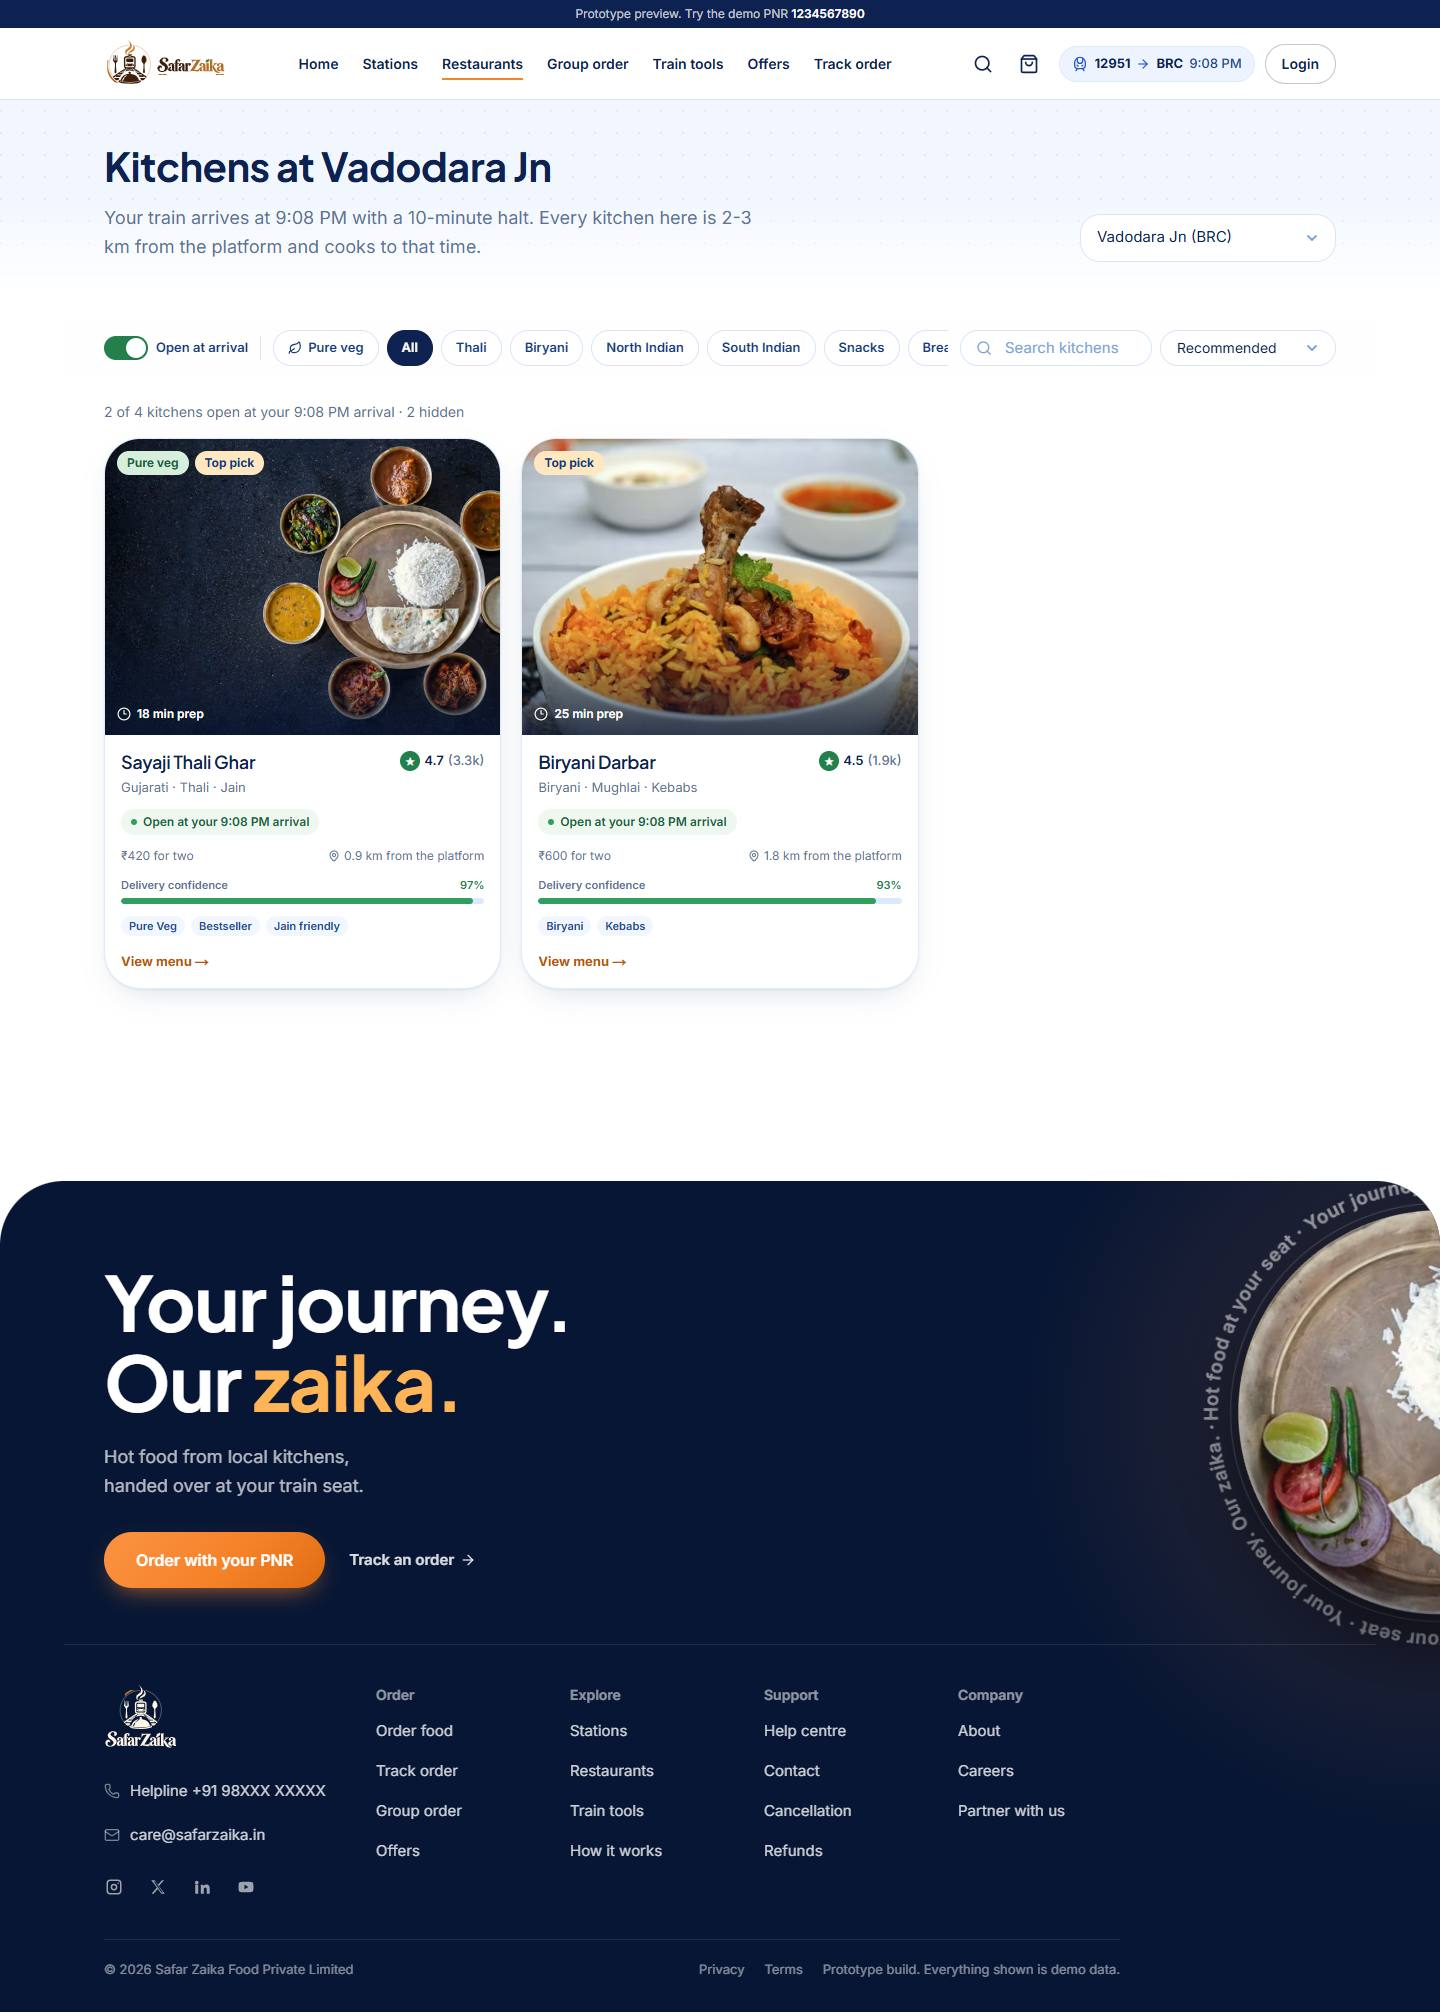
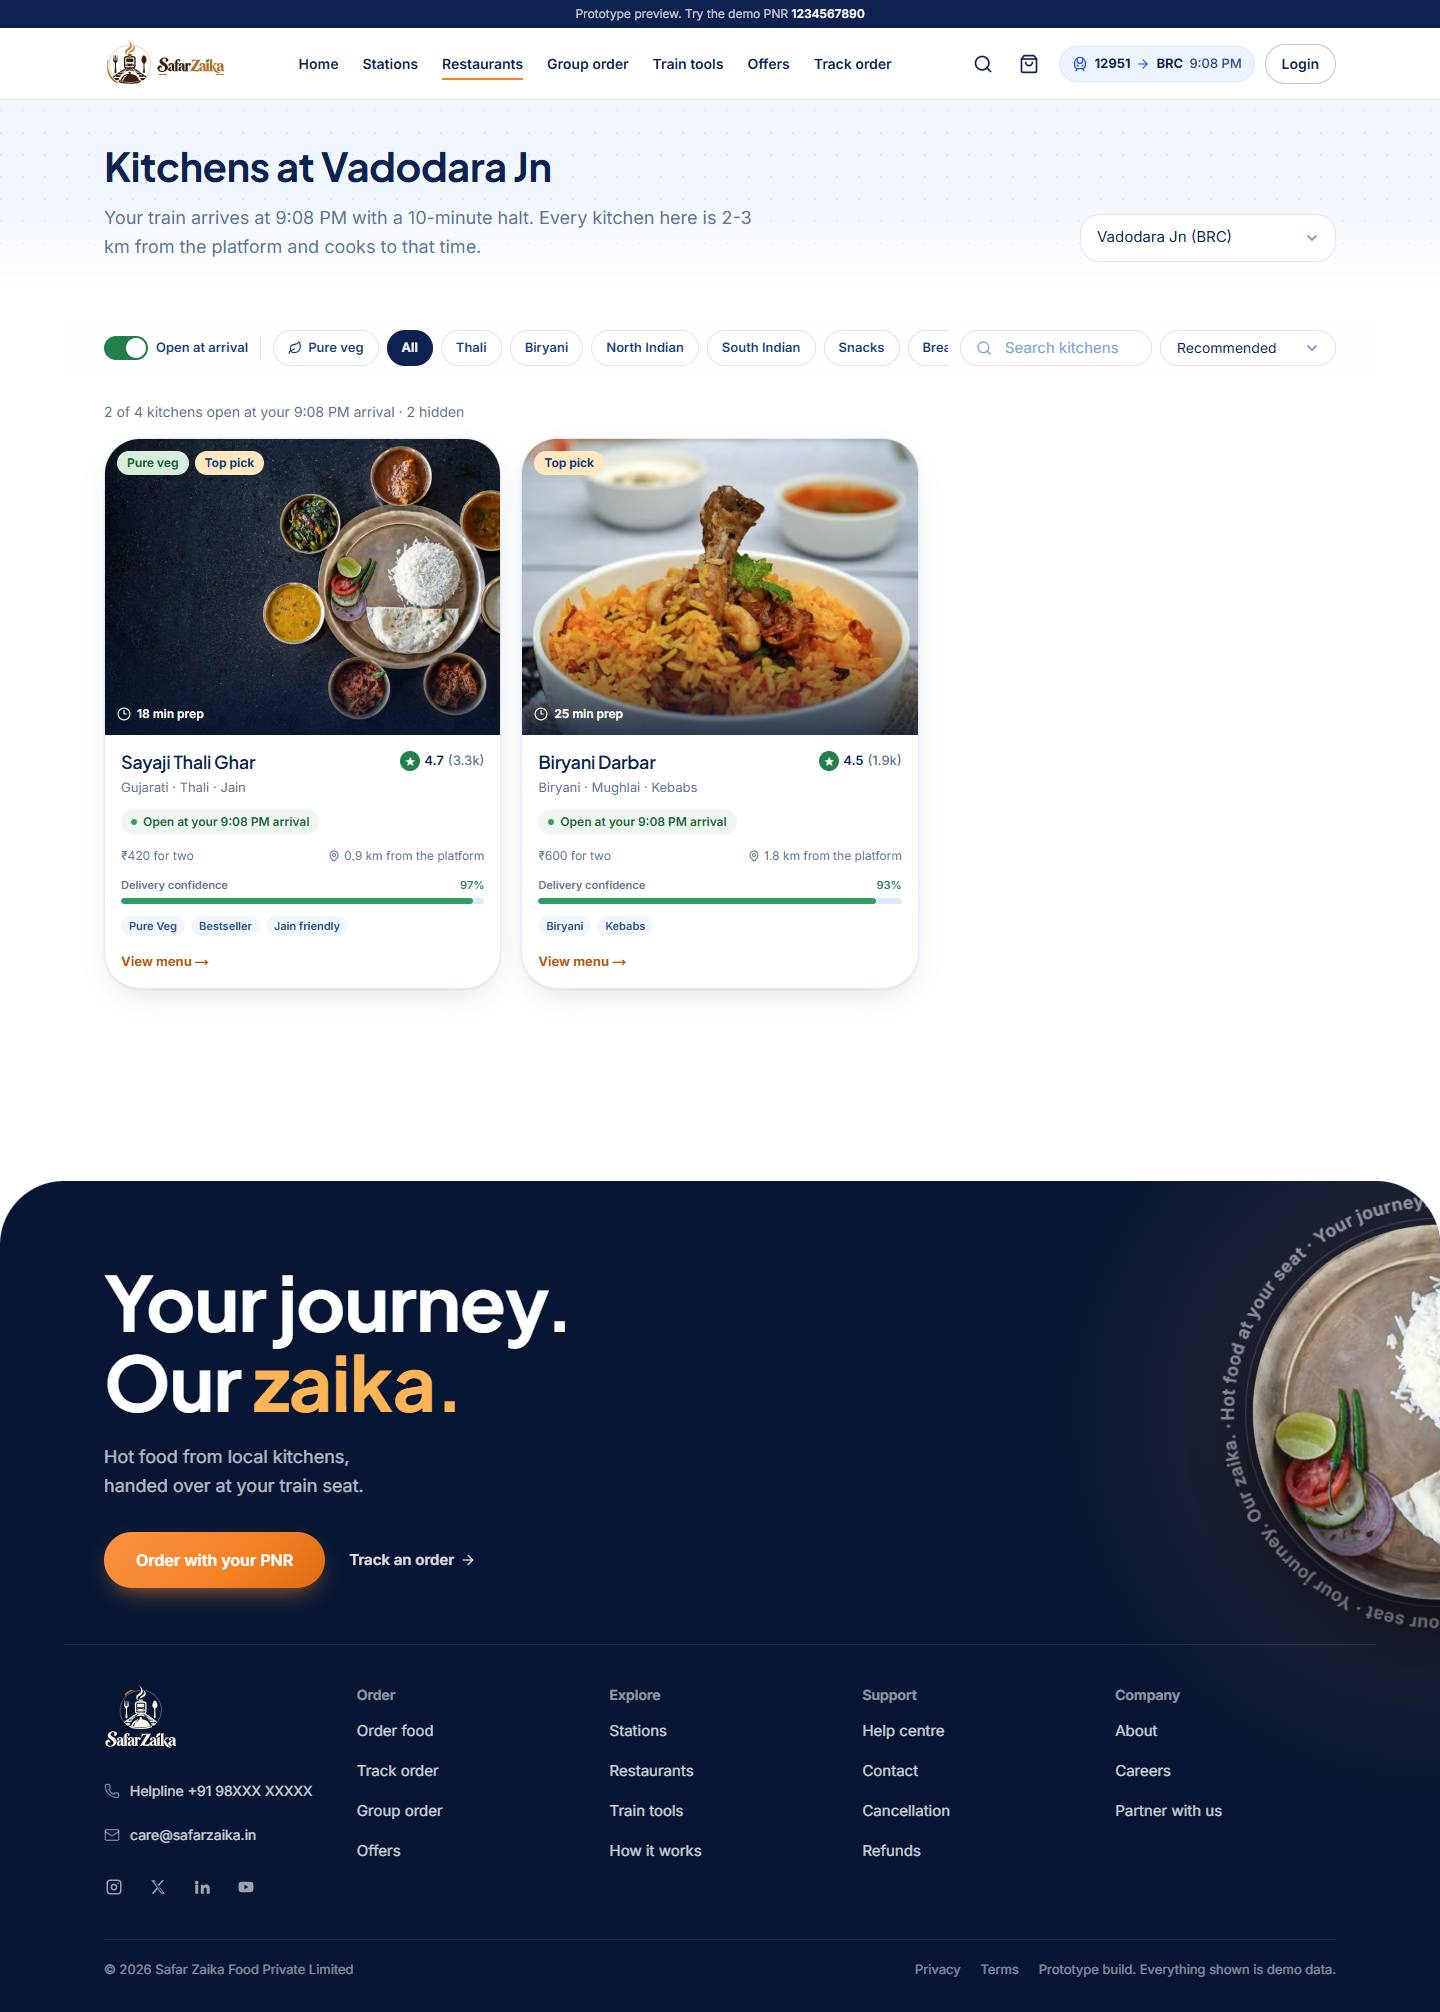
Even footer columns across the full width
The site map reserved a wide right gutter for the thali, which pushed all five
columns into the left two-thirds. The plate is now sized to stay inside the
headline band above it, so the gutter is gone and the brand block plus the four
link groups sit on five equal columns spanning the container, with equal gaps at
every width from 1024 up. Contact lines drop to 14px so the helpline still fits
on one line in the narrower brand column.

diff --git a/src/components/layout/Footer.tsx b/src/components/layout/Footer.tsx
@@ -47,7 +47,7 @@ function Plate() {
   return (
     <div
       aria-hidden
-      className="pointer-events-none absolute right-0 top-38 size-[min(58vw,17rem)] translate-x-1/2 sm:top-1/2 sm:-translate-y-1/2 md:size-80 lg:top-1/2 lg:size-[clamp(21rem,28vw,30rem)]"
+      className="pointer-events-none absolute right-0 top-38 size-[min(58vw,17rem)] translate-x-1/2 sm:top-1/2 sm:-translate-y-1/2 md:size-80 lg:top-1/2 lg:size-[clamp(21rem,26vw,26rem)]"
     >
       <div className="absolute -inset-[55%] rounded-full bg-[radial-gradient(closest-side,rgb(246_130_42/0.2),transparent)]" />
       <svg
@@ -131,20 +131,21 @@ export function Footer() {
         </Reveal>
       </div>
 
-      {/* Site map: brand column, then the four link groups. lg:pr-* keeps the plate off the links. */}
-      <div className="container-x relative border-t border-cream-50/10 pb-[calc(env(safe-area-inset-bottom)+8rem)] pt-10 md:pb-[calc(env(safe-area-inset-bottom)+4rem)] lg:pb-8 lg:pr-56 xl:pr-64">
-        <div className="grid grid-cols-2 gap-x-6 gap-y-10 md:grid-cols-4 lg:grid-cols-[minmax(15rem,1fr)_repeat(4,minmax(0,0.78fr))] lg:gap-x-8">
+      {/* Site map: brand column, then the four link groups, five even columns across the full width.
+          The plate is sized to stay inside the band above, so nothing has to be kept clear here. */}
+      <div className="container-x relative border-t border-cream-50/10 pb-[calc(env(safe-area-inset-bottom)+8rem)] pt-10 md:pb-[calc(env(safe-area-inset-bottom)+4rem)] lg:pb-8">
+        <div className="grid grid-cols-2 gap-x-6 gap-y-10 md:grid-cols-4 lg:grid-cols-[minmax(13.5rem,1fr)_repeat(4,minmax(0,1fr))] lg:gap-x-8">
           <div className="col-span-2 md:col-span-4 lg:col-span-1">
             <Logo variant="stacked-white" className="h-16" />
             <ul className="mt-4 space-y-1">
               <li>
-                <a href="tel:+919800000000" className={`inline-flex min-h-10 items-center gap-2.5 text-[15px] text-cream-50/80 ${quiet}`}>
+                <a href="tel:+919800000000" className={`inline-flex min-h-10 items-center gap-2.5 whitespace-nowrap text-sm text-cream-50/80 ${quiet}`}>
                   <Phone className="size-4 shrink-0 text-cream-50/45" aria-hidden />
                   Helpline +91 98XXX XXXXX
                 </a>
               </li>
               <li>
-                <a href="mailto:care@safarzaika.in" className={`inline-flex min-h-10 items-center gap-2.5 text-[15px] text-cream-50/80 ${quiet}`}>
+                <a href="mailto:care@safarzaika.in" className={`inline-flex min-h-10 items-center gap-2.5 whitespace-nowrap text-sm text-cream-50/80 ${quiet}`}>
                   <Mail className="size-4 shrink-0 text-cream-50/45" aria-hidden />
                   care@safarzaika.in
                 </a>
